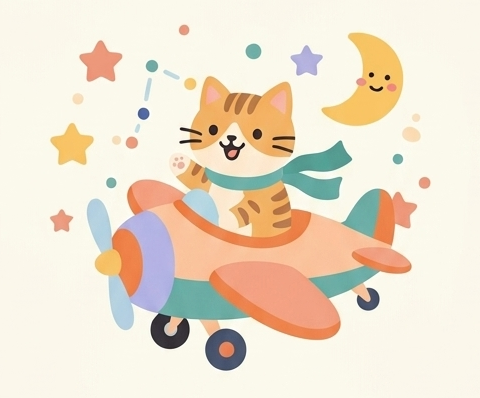
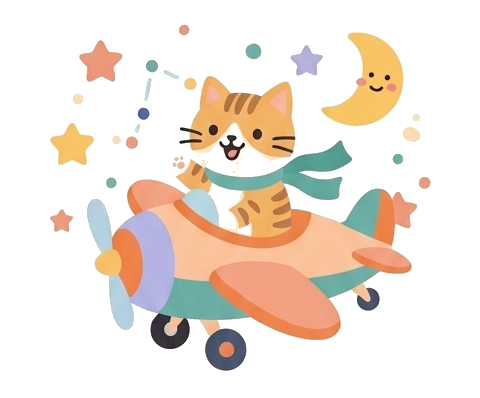
Add files via upload

diff --git a/src/components/CatPlaneIllustration.css b/src/components/CatPlaneIllustration.css
@@ -3,6 +3,7 @@
   justify-content: center;
   align-items: center;
   padding: 4px 0 8px;
+  background: transparent;
 }
 
 .hero-cat-image {
@@ -14,4 +15,5 @@
   animation: float-gentle 4.5s ease-in-out infinite;
   user-select: none;
   pointer-events: none;
+  /* PNG 已去底；若换图请使用透明背景抠图 */
 }